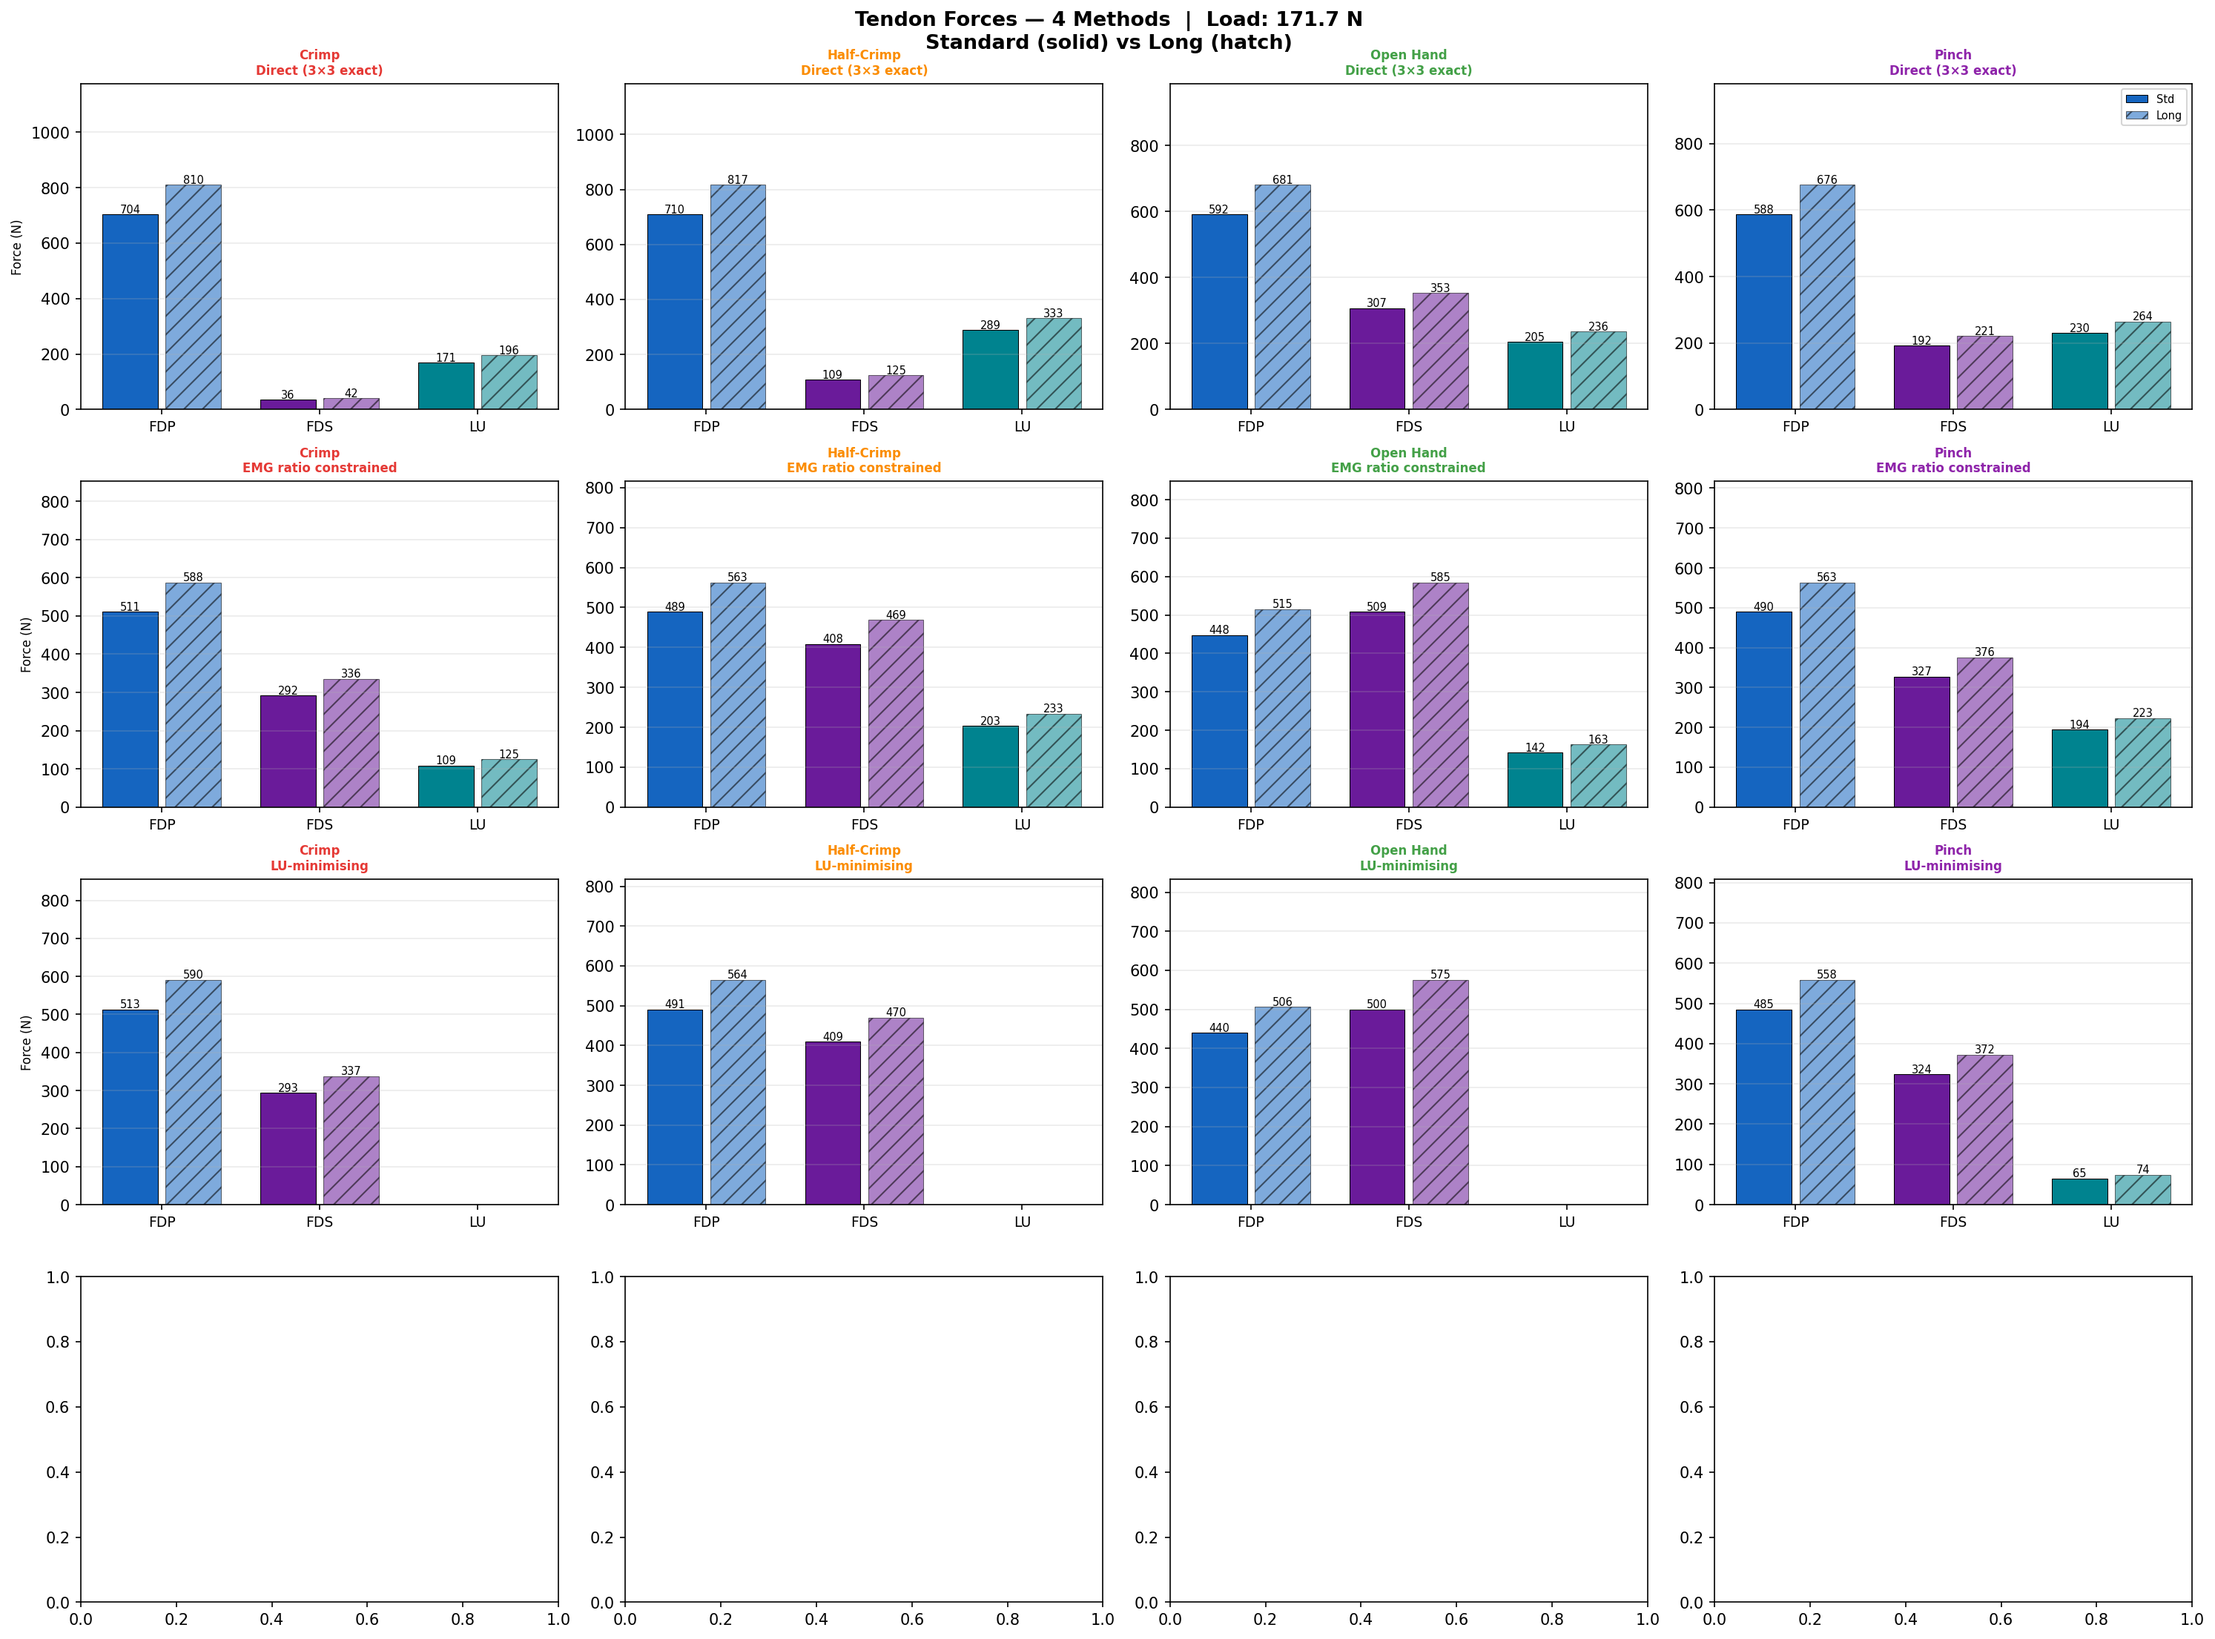
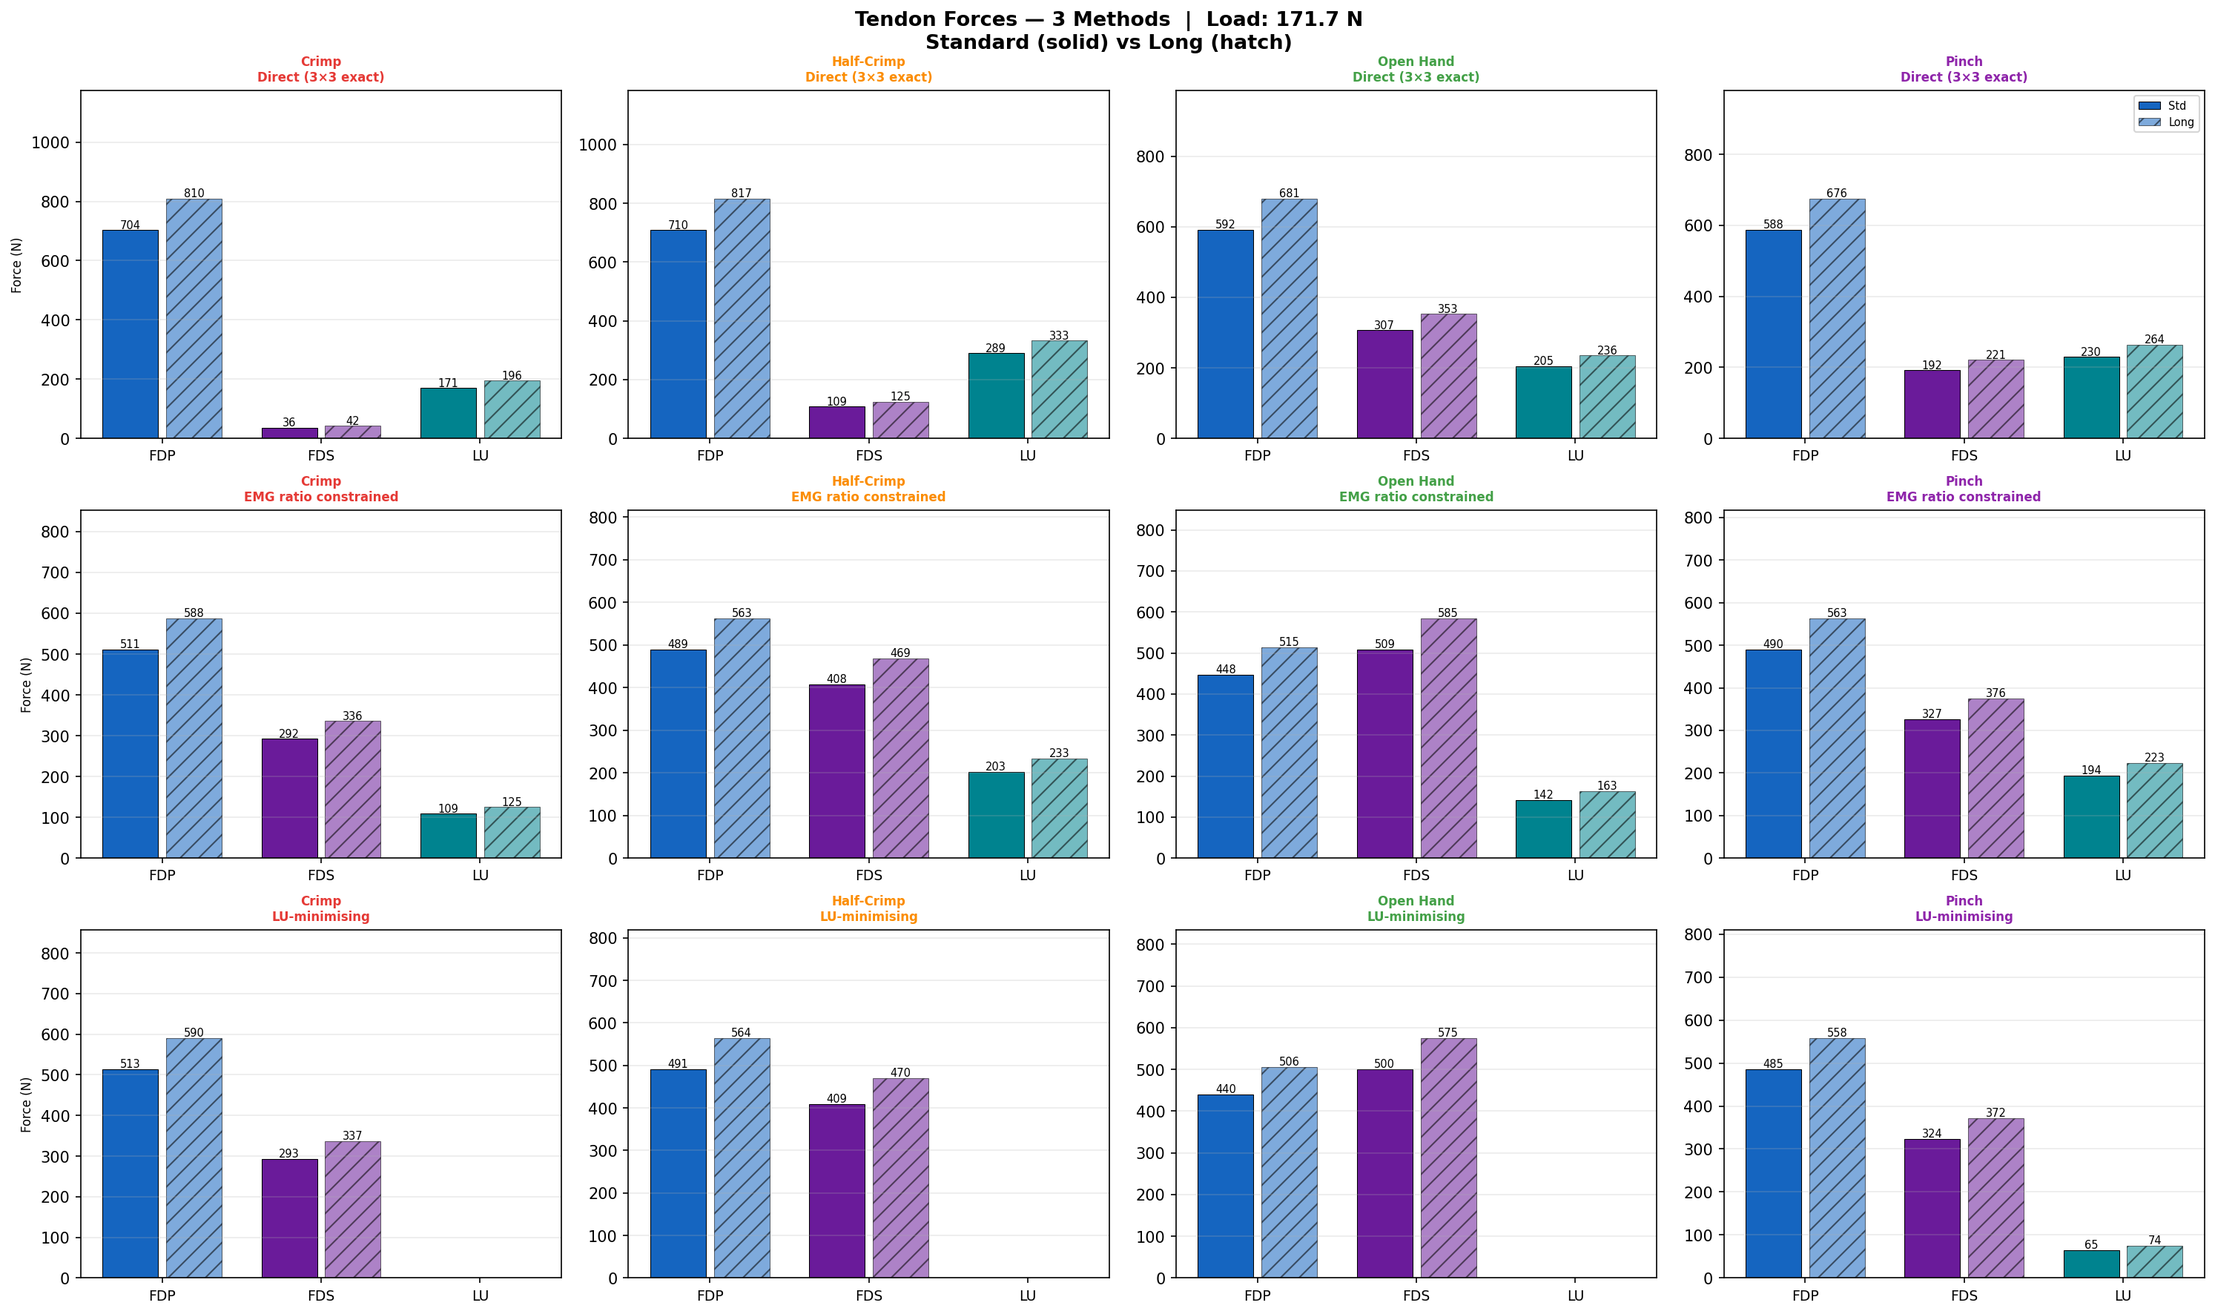
feat: Update `climbing_finger_3d.py` and regenerate `climbing_3d_fig2.png`.

diff --git a/climbing_finger_3d.py b/climbing_finger_3d.py
@@ -784,8 +784,8 @@ def run_simulation():
     # ════════════════════════════════════════════════════════════
     # FIG 2 — Forces per grip × method × geometry
     # ════════════════════════════════════════════════════════════
-    fig2, axes2 = plt.subplots(4, 4, figsize=(20, 15))
-    fig2.suptitle(f"Tendon Forces — 4 Methods  |  Load: {F_tip:.1f} N\n"
+    fig2, axes2 = plt.subplots(3, 4, figsize=(20, 12))
+    fig2.suptitle(f"Tendon Forces — 3 Methods  |  Load: {F_tip:.1f} N\n"
                   "Standard (solid) vs Long (hatch)", fontsize=13, fontweight='bold')
     muscles = ['FDP','FDS','LU']
     mcols   = [MUSCLE_COLORS[m] for m in muscles]
@@ -1062,7 +1062,7 @@ def run_simulation():
     fig8, axes8 = plt.subplots(3, 1, figsize=(14, 16), sharex=True)
     fig8.suptitle(
         "Deep Hold Biomechanics: Equilibrium Posture Sweep (Open Hand)\n"
-        "Min-effort solver  |  Equilibrium DIP/PIP posture at each depth  |  "
+        "EMG-constrained solver  |  Equilibrium DIP/PIP posture at each depth  |  "
         f"Load: {F_tip:.1f} N\n"
         "Shading: Short (−15%) / Std / Long (+15%) finger phenotype\n"
         "Refs: Crowninshield & Brand 1981; Vigouroux 2006; Schweizer 2001",
